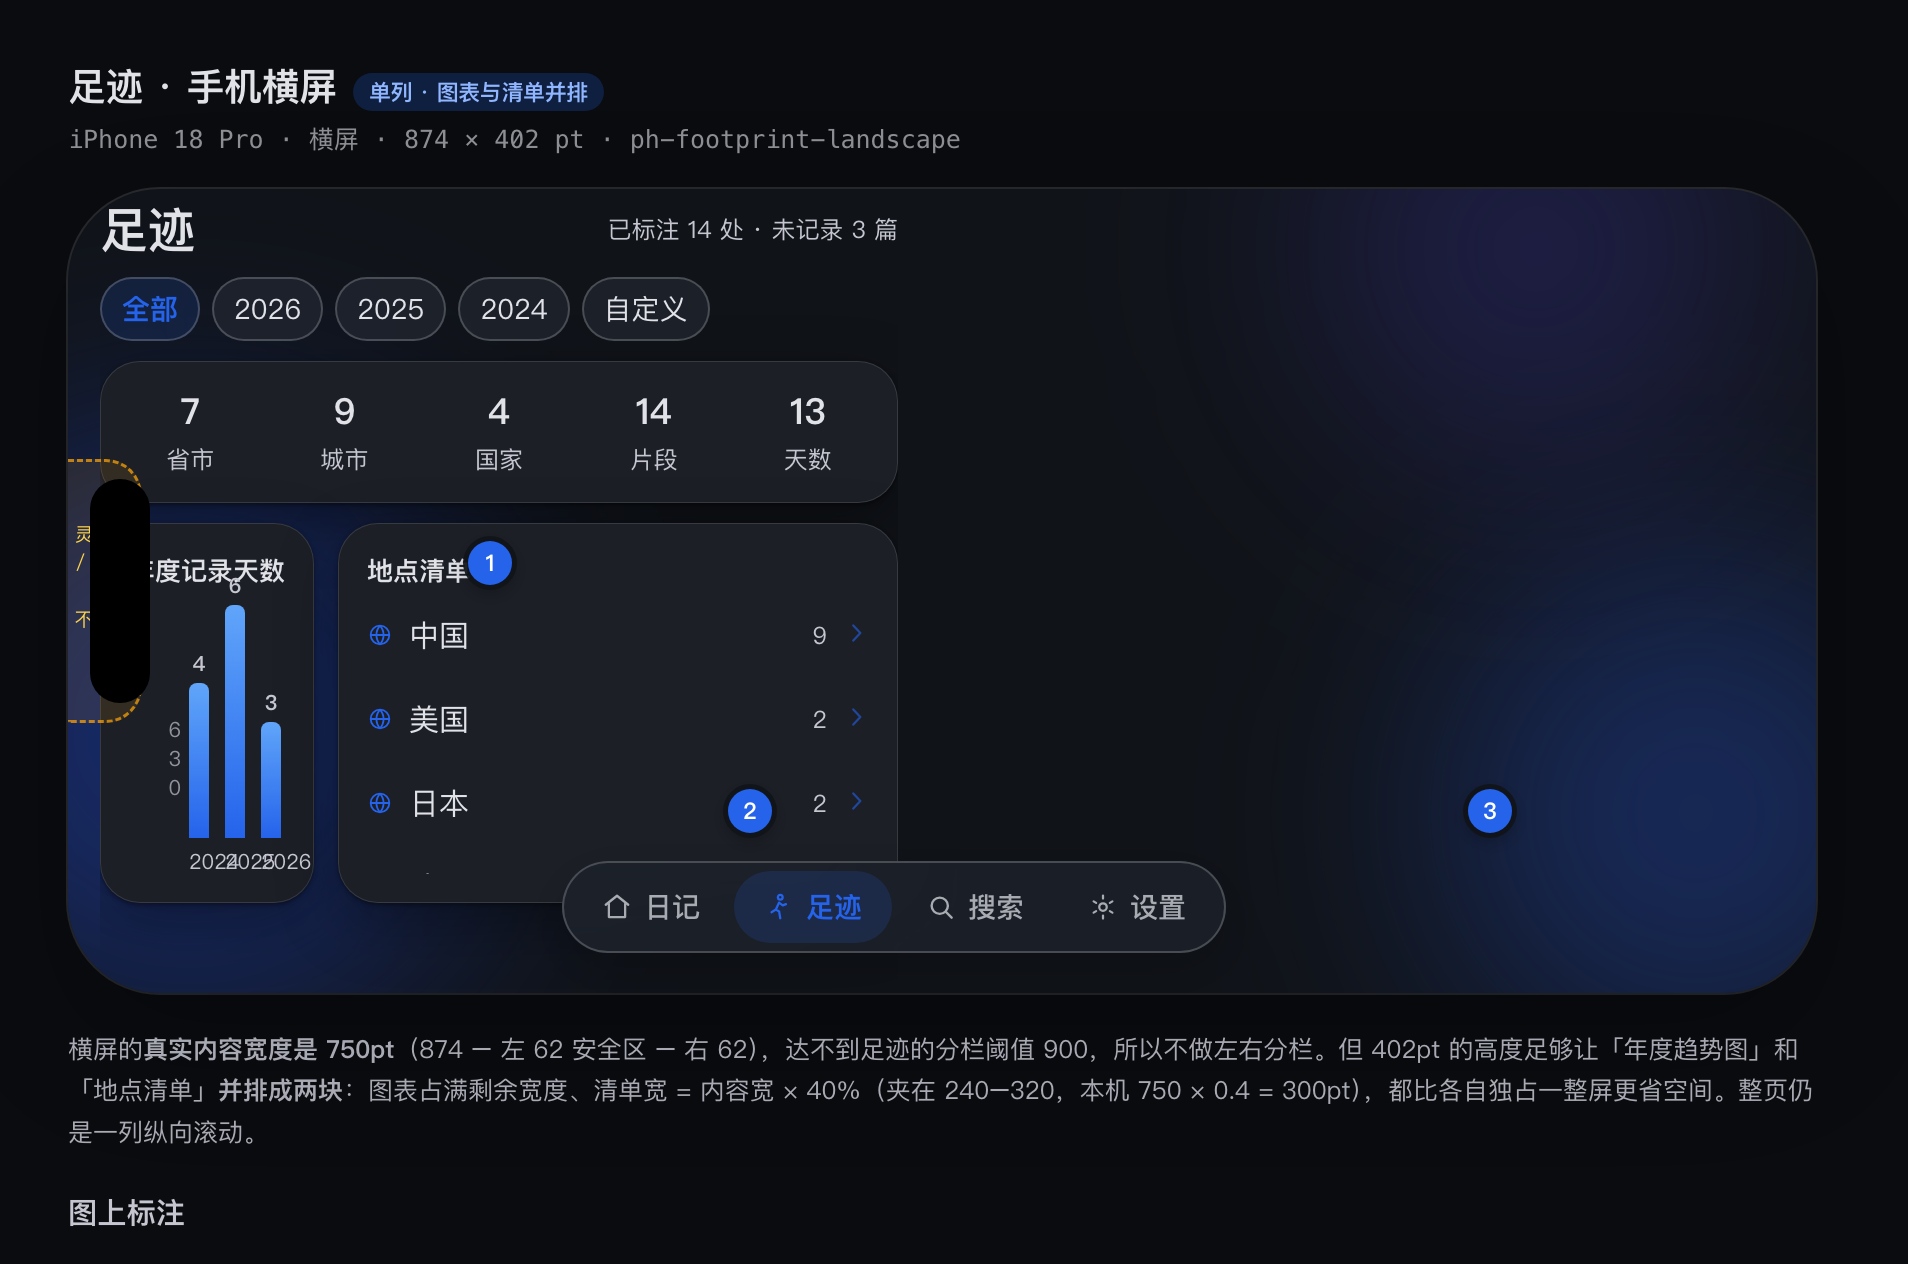
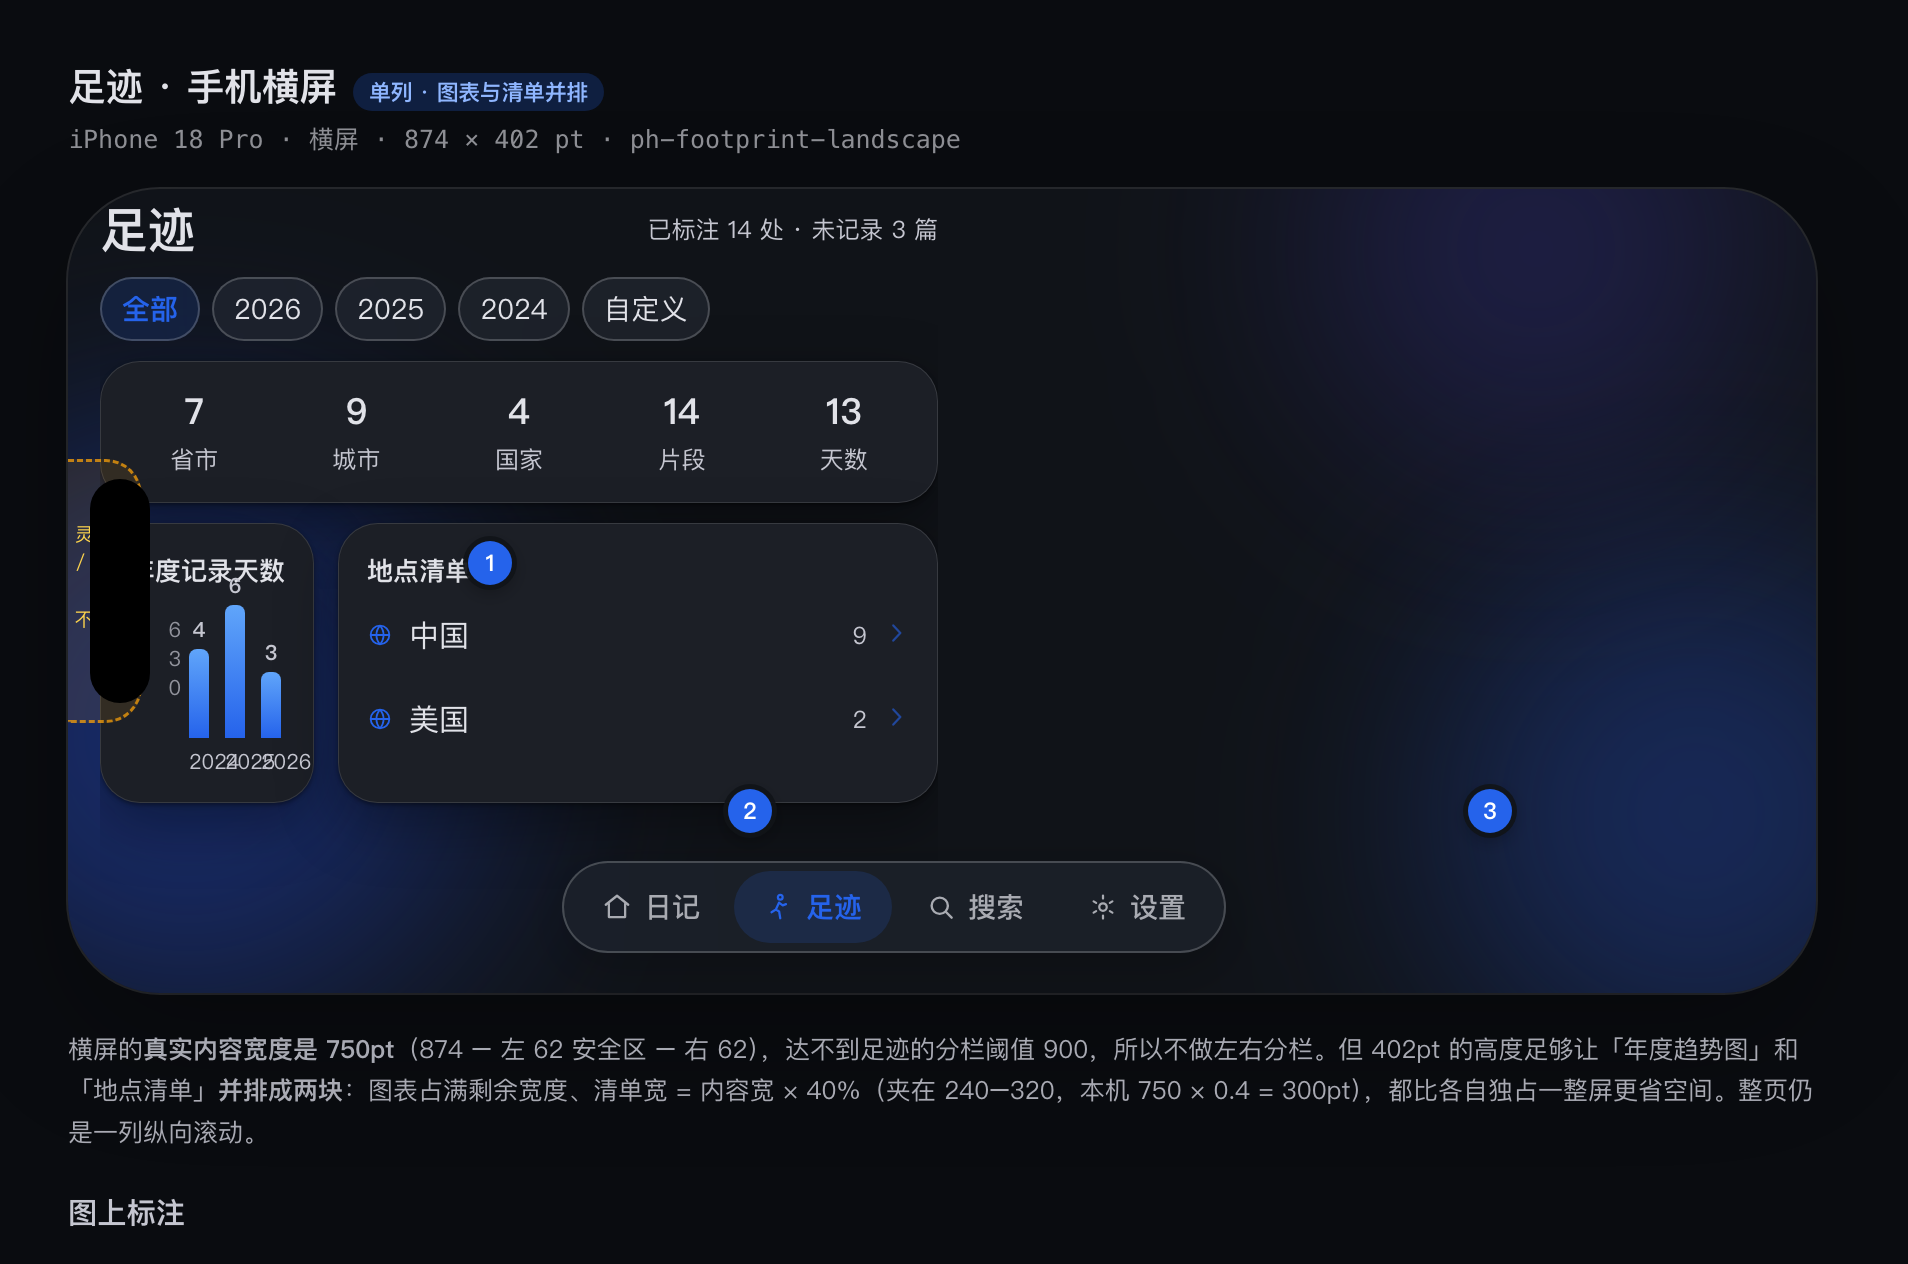
【文档】设计稿：足迹并排块按实现的公式重画（190→140pt、清单 280→300pt）
上一提交把这张稿的说明文字改成了实现里的公式，但绘图还停在旧的固定值：
- 并排块高 `190px` → `max(140, min(190, 屏高 − 262))`（402pt 横屏上是 140pt）；
- 清单宽固定 `280px` → `min(320, max(240, 内容宽 × 0.4))`（本机 750 × 0.4 = 300pt）。

与 `FootprintView.swift:48 / :161` 同一组数，PNG 已重新导出。

diff --git a/docs/design/landscape/frames-phone.js b/docs/design/landscape/frames-phone.js
@@ -79,6 +79,11 @@ function homeLandscape(dev, layout) {
 function footprintLandscape(dev, layout) {
   const years = [[2024, 4], [2025, 6], [2026, 3]];
   const stats = [["7", "省市"], ["9", "城市"], ["4", "国家"], ["14", "片段"], ["13", "天数"]];
+  /* 与实现同一组数（FootprintView.swift:48 / :161）：并排块高 = max(140, min(190, 屏高 − 262))、
+     清单宽 = min(320, max(240, 内容宽 × 0.4))。402pt 高的横屏上分别是 140pt 与 300pt。 */
+  const blockH = Math.max(140, Math.min(190, dev.h - 262));
+  const listW = Math.min(320, Math.max(240,
+    Math.round((dev.w - layout.contentInset - layout.trailingInset) * 0.4)));
   return `
     <div class="pane" style="padding:0 16px">
       <div class="pane-head" style="padding:2px 0 6px">
@@ -94,12 +99,12 @@ function footprintLandscape(dev, layout) {
         <div class="card" style="flex:none;padding:12px 6px"><div class="stat-row">
           ${stats.map(([v, l]) => `<div class="stat"><b>${v}</b><span>${l}</span></div>`).join("")}
         </div></div>
-        <div style="display:flex;gap:12px;flex:none;height:190px">
+        <div style="display:flex;gap:12px;flex:none;height:${blockH}px">
           <div class="card" style="flex:1;min-width:0;display:flex;flex-direction:column">
             <div style="font-size:var(--t-sub);font-weight:600;margin-bottom:4px">年度记录天数</div>
             <div style="flex:1;display:flex;min-height:0;padding-bottom:18px">${bars(years)}</div>
           </div>
-          <div class="card" style="width:280px;flex:none;display:flex;flex-direction:column">
+          <div class="card" style="width:${listW}px;flex:none;display:flex;flex-direction:column">
             <div style="font-size:var(--t-sub);font-weight:600;margin-bottom:2px">地点清单</div>
             <div style="flex:1;min-height:0;overflow:hidden">${footprintTree()}</div>
           </div>
